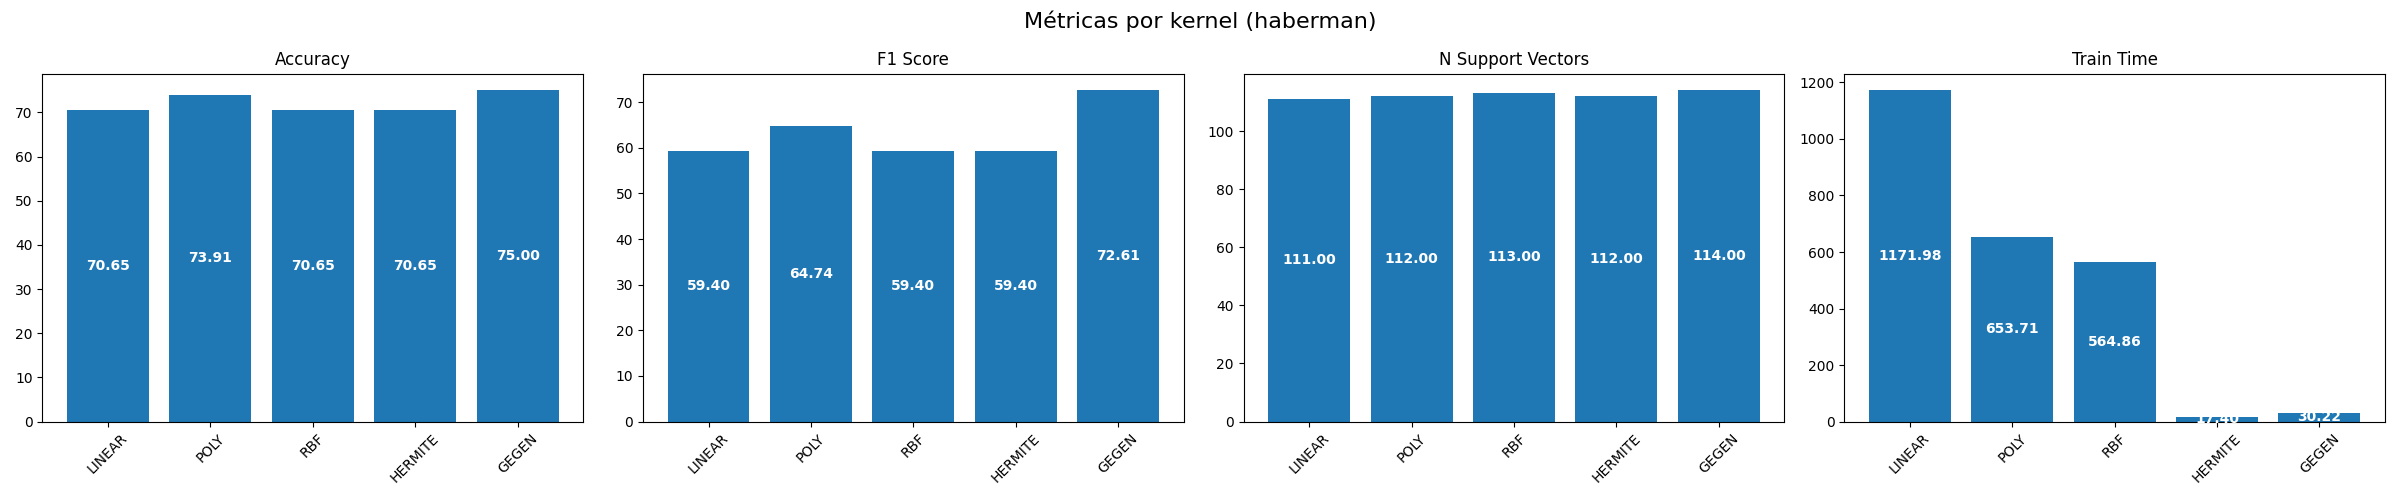
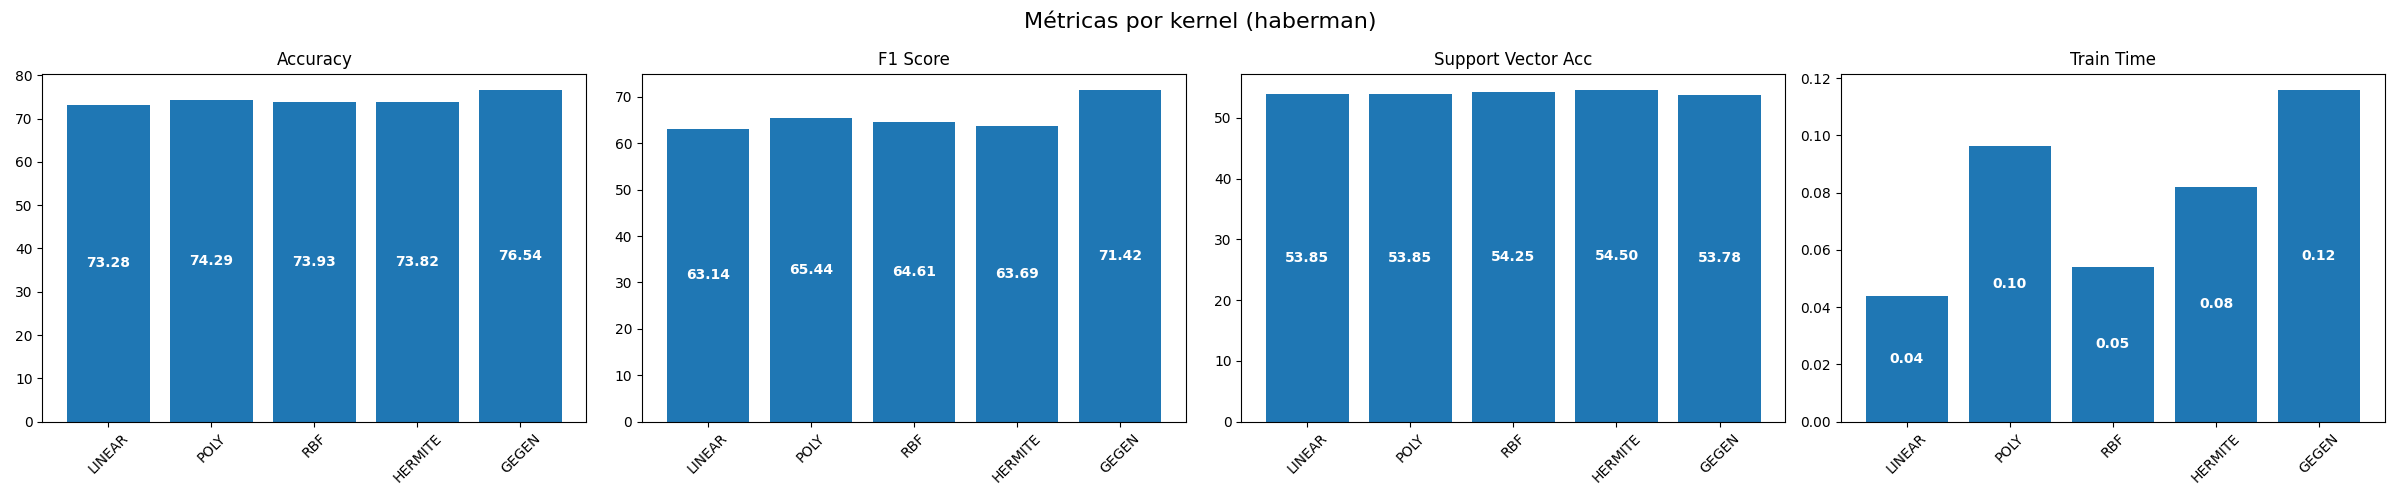
Mejoras

diff --git a/experiments.py b/experiments.py
@@ -44,12 +44,6 @@ def main(config_path: str = "config.json"):
     records = []
     for ds_name, X, y in datasets:
         log.info(f"=== Dataset: {ds_name} ===")
-        # train/test split
-        X_train, X_test, y_train, y_test = train_test_split(
-            X, y,
-            test_size=cfg['data'].get('test_size', 0.3),
-            random_state=cfg['cross_validation']['random_state']
-        )
 
         # Para cada kernel
         for kern in kernels:
@@ -59,17 +53,16 @@ def main(config_path: str = "config.json"):
 
             # Entrenar
             start = time.perf_counter()
-            model = train_svm(
-                X_train, y_train,
+            metrics = train_svm(
+                X, y,
                 kernel_func=func,
                 C=svm_cfg['C'][0],
                 cv=cfg['cross_validation']['n_splits'],
                 n_jobs=cfg['cross_validation']['n_jobs']
             )
             elapsed = time.perf_counter() - start
+            metrics['train_time'] = elapsed
 
-            # Evaluar
-            metrics = evaluate_model(model, X_test, y_test)
             log.info(f"-> {name}: {metrics}")
 
             # Registrar
@@ -78,7 +71,6 @@ def main(config_path: str = "config.json"):
                 'kernel': name,
                 **metrics
             }
-            rec['train_time'] = elapsed * 1000  # en milisegundos
             records.append(rec)
 
         # --- 5. Plot métricas y tabla de diferencias ---
@@ -103,42 +95,14 @@ def main(config_path: str = "config.json"):
         # Llamada a la tabla
         plot_accuracy_diff_table(df_merge[['dataset', 'kernel', 'acc_diff']])
 
-        # --- 6. Plot decision boundary del primer kernel (2 features) ---
-        df_ds = pd.DataFrame([r for r in records if r['dataset'] == ds_name])
-        first_kernel = df_ds.iloc[0]['kernel']
-        first_func   = next(k['func'] for k in kernels if k['name'] == first_kernel)
-
-        # Entrenar de nuevo solo para las 2 primeras features
-        model = train_svm(
-            X_train[:, :2], y_train,
-            kernel_func=first_func,
-            C=svm_cfg['C'][0],              # un float, no la lista
-            cv=cfg['cross_validation']['n_splits'],
-            n_jobs=cfg['cross_validation']['n_jobs']
-        )
-
-        import matplotlib.pyplot as plt
-        fig, ax = plt.subplots(figsize=(6, 5))
-        svc = model.named_steps['svc']
-        plot_decision_boundary(
-            svc,                     # paso svc, no el pipeline
-            X_train[:, :2], y_train, 
-            ax,
-            title=f"{ds_name} - {first_kernel}"
-        )
-        fig.savefig(
-            os.path.join(cfg['output']['plots_dir'], f"{ds_name}_{first_kernel}_boundary.png")
-        )
-        plt.close(fig)
-
         plot_path = os.path.join(cfg['output']['plots_dir'], f"{ds_name}_metrics.png")
         plot_metrics_comparison(
             df_ds.to_dict(orient='records'),
-            metrics=['accuracy', 'f1_score', 'n_support_vectors', 'train_time'],
+            metrics=['accuracy', 'f1_score', 'support_vector_acc', 'train_time'],
             save_path=plot_path
         )
 
-    # --- 7. Guardar resultados globales ---
+    # --- 6. Guardar resultados globales ---
     df_results = pd.DataFrame(records)
     out_csv = os.path.join(cfg['output']['results_dir'], "svm_results.csv")
     df_results.to_csv(out_csv, index=False)

diff --git a/Model/train.py b/Model/train.py
@@ -4,46 +4,59 @@ import numpy as np
 from sklearn.base import BaseEstimator
 from sklearn.pipeline import Pipeline
 from sklearn.preprocessing import MinMaxScaler
-from sklearn.model_selection import GridSearchCV, cross_val_score
+from sklearn.model_selection import GridSearchCV, cross_val_score, StratifiedKFold
+from sklearn.metrics import make_scorer, f1_score
+from sklearn.svm import SVC
 
 
-def train_svm(
-    X: np.ndarray,
-    y: np.ndarray,
-    kernel_func: Callable[[np.ndarray, np.ndarray], np.ndarray],
-    C: float = 1.0,
-    cv: int = 5,
-    n_jobs: int = -1,
-    **kernel_params
-) -> BaseEstimator:
+def train_svm(X, y, kernel_func, C=1.0, cv=10, n_jobs=-1):
     """
-    Entrena un SVM usando Pipeline con escalado e inyección de kernel custom.
-
-    :param X: Entrenamiento features (n_samples, n_features)
-    :param y: Entrenamiento labels
-    :param kernel_func: Callable que computa la matriz de Gram (custom kernel)
-    :param C: Parámetro de regularización
-    :param cv: Número de folds para validación cruzada
-    :param n_jobs: Paralelización
-    :param kernel_params: Parámetros adicionales (passed via SVC)
-    :return: SVC entrenado con mejores parámetros
+    Realiza validación cruzada con el kernel dado y devuelve métricas promedio,
+    incluyendo estadísticas de vectores soporte.
     """
-    from sklearn.svm import SVC
-
-    # Pipeline con escalador y SVM con custom kernel
     pipe = Pipeline([
         ('scaler', MinMaxScaler()),
-        ('svc', SVC(kernel=kernel_func, C=C, **kernel_params))
+        ('svc', SVC(kernel=kernel_func, C=C))
     ])
-
-    # Validación cruzada para accuracy y f1
-    scores = cross_val_score(pipe, X, y, cv=cv, scoring='accuracy', n_jobs=n_jobs)
-    print(f"CV Accuracy: {scores.mean()*100:.2f}% ± {scores.std()*100:.2f}%")
-
-    # Ajuste final sobre todo el training set
-    pipe.fit(X, y)
-    return pipe
-
+    
+    # Configurar cross-validation
+    cv_splitter = StratifiedKFold(n_splits=cv)
+    support_proportions = []
+    acc_scores = []
+    f1_scores = []
+    
+    for train_idx, _ in cv_splitter.split(X, y):
+        X_train_fold, y_train_fold = X[train_idx], y[train_idx]
+        
+        # Entrenar modelo en el fold
+        pipe.fit(X_train_fold, y_train_fold)
+        
+        # Obtener porcentaje de vectores soporte
+        n_support = pipe.named_steps['svc'].support_.shape[0]
+        support_prop = (n_support / len(X_train_fold)) * 100  # Porcentaje
+        support_proportions.append(support_prop)
+        
+        # Calcular métricas en validation
+        X_val_fold, y_val_fold = X[~train_idx], y[~train_idx]
+        acc = pipe.score(X_val_fold, y_val_fold)
+        f1 = f1_score(y_val_fold, pipe.predict(X_val_fold), average='weighted')
+        
+        acc_scores.append(acc)
+        f1_scores.append(f1)
+    
+    # Convertir a arrays numpy
+    acc_scores = np.array(acc_scores)
+    f1_scores = np.array(f1_scores)
+    support_proportions = np.array(support_proportions)
+    
+    return {
+        'accuracy': acc_scores.mean() * 100,
+        'accuracy_std': acc_scores.std() * 100,
+        'f1_score': f1_scores.mean() * 100,
+        'f1_score_std': f1_scores.std() * 100,
+        'support_vector_acc': support_proportions.mean(),
+        'support_vector_std': support_proportions.std()
+    }
 
 def tune_svm(
     X: np.ndarray,
